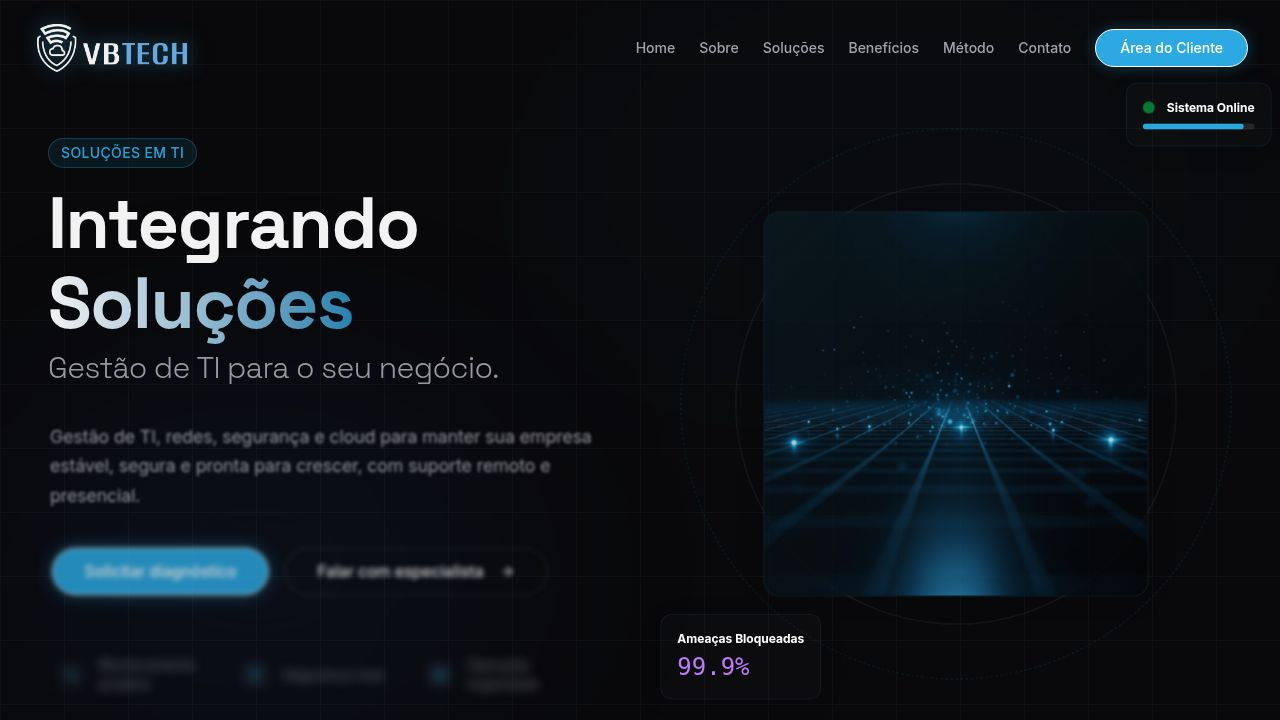
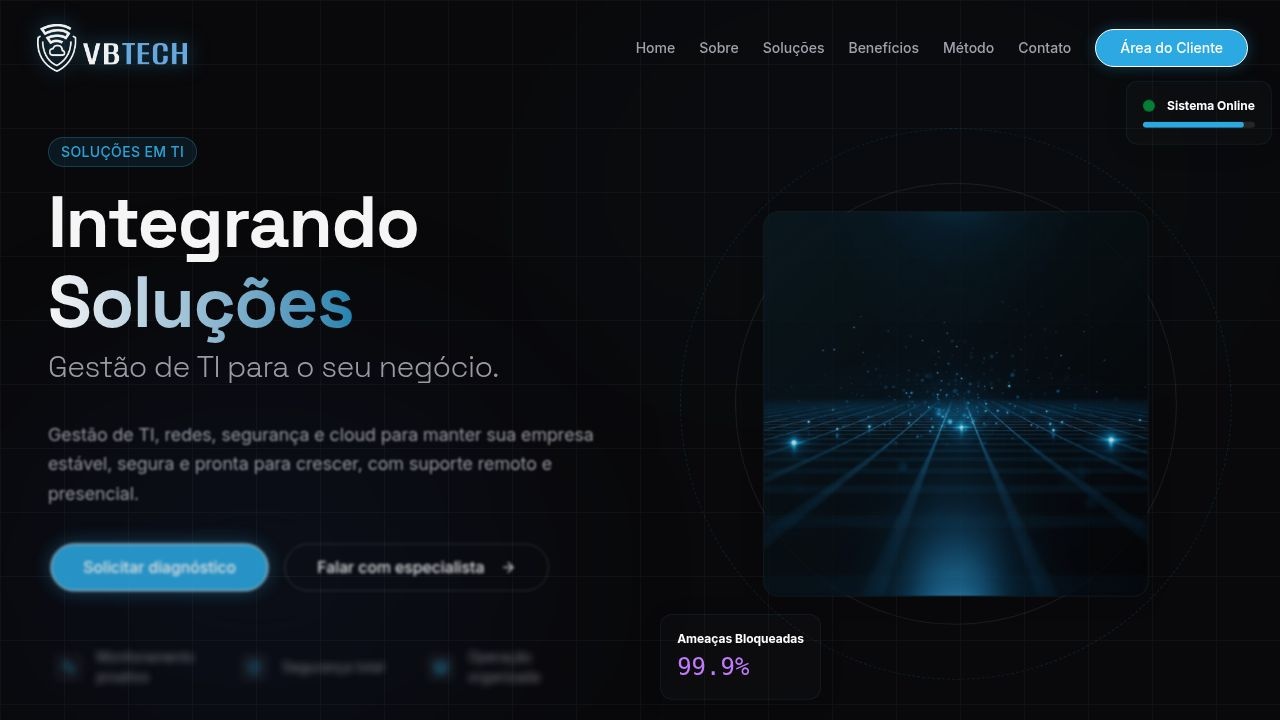
Improve partner section layout and effects on mobile devices
Adjust partner section for mobile by reducing card spacing and height, and making hover effects permanently active. Desktop interactive effects are preserved.

Replit-Commit-Author: Agent
Replit-Commit-Session-Id: 80d6be5e-16ed-4352-a094-0144d32cc626
Replit-Commit-Checkpoint-Type: full_checkpoint
Replit-Commit-Event-Id: d6382790-d81e-402b-9742-2858f3be7e02
Replit-Commit-Screenshot-Url: https://storage.googleapis.com/screenshot-production-us-central1/f6347608-ed15-44bc-b997-97d95aee1914/80d6be5e-16ed-4352-a094-0144d32cc626/zeZbya3
Replit-Helium-Checkpoint-Created: true

diff --git a/client/src/components/layout/Technologies.tsx b/client/src/components/layout/Technologies.tsx
@@ -37,7 +37,7 @@ export function Technologies() {
         </div>
 
         <motion.div 
-          className="grid grid-cols-2 md:grid-cols-4 gap-6 max-w-6xl mx-auto"
+          className="grid grid-cols-2 md:grid-cols-4 gap-4 md:gap-6 max-w-6xl mx-auto"
           variants={staggerContainer}
           initial="hidden"
           whileInView="visible"
@@ -48,19 +48,19 @@ export function Technologies() {
               key={index}
               variants={revealVariants}
               whileHover={{ scale: 1.05, y: -5 }}
-              className="group relative bg-[#1e293b] rounded-xl p-6 h-36 flex items-center justify-center transition-all duration-500 border border-white/5 hover:border-cyan-500/50 hover:shadow-[0_0_20px_rgba(6,182,212,0.1)] overflow-hidden cursor-default"
+              className="group relative bg-[#1e293b] rounded-xl p-4 md:p-6 h-28 md:h-36 flex items-center justify-center transition-all duration-500 border border-cyan-500/30 md:border-white/5 md:hover:border-cyan-500/50 shadow-[0_0_15px_rgba(6,182,212,0.1)] md:shadow-none md:hover:shadow-[0_0_20px_rgba(6,182,212,0.1)] overflow-hidden cursor-default"
             >
-              {/* Subtle Gradient Background - No Blur */}
+              {/* Subtle Gradient Background */}
               <div className="absolute inset-0 bg-gradient-to-br from-white/5 to-transparent opacity-100" />
               
               <img 
                 src={partner.logo} 
                 alt={partner.name}
-                className="relative z-10 max-w-[85%] max-h-[80%] object-contain transition-all duration-500 group-hover:scale-110"
+                className="relative z-10 max-w-[90%] md:max-w-[85%] max-h-[85%] md:max-h-[80%] object-contain transition-all duration-500 md:group-hover:scale-110"
               />
               
-              {/* Crisp Bottom Line Accent */}
-              <div className="absolute bottom-0 left-0 w-full h-[2px] bg-gradient-to-r from-transparent via-cyan-500 to-transparent scale-x-0 group-hover:scale-x-100 transition-transform duration-500 ease-out" />
+              {/* Crisp Bottom Line Accent - Always visible on mobile, hover on desktop */}
+              <div className="absolute bottom-0 left-0 w-full h-[2px] bg-gradient-to-r from-transparent via-cyan-500 to-transparent scale-x-100 md:scale-x-0 md:group-hover:scale-x-100 transition-transform duration-500 ease-out" />
             </motion.div>
           ))}
         </motion.div>
